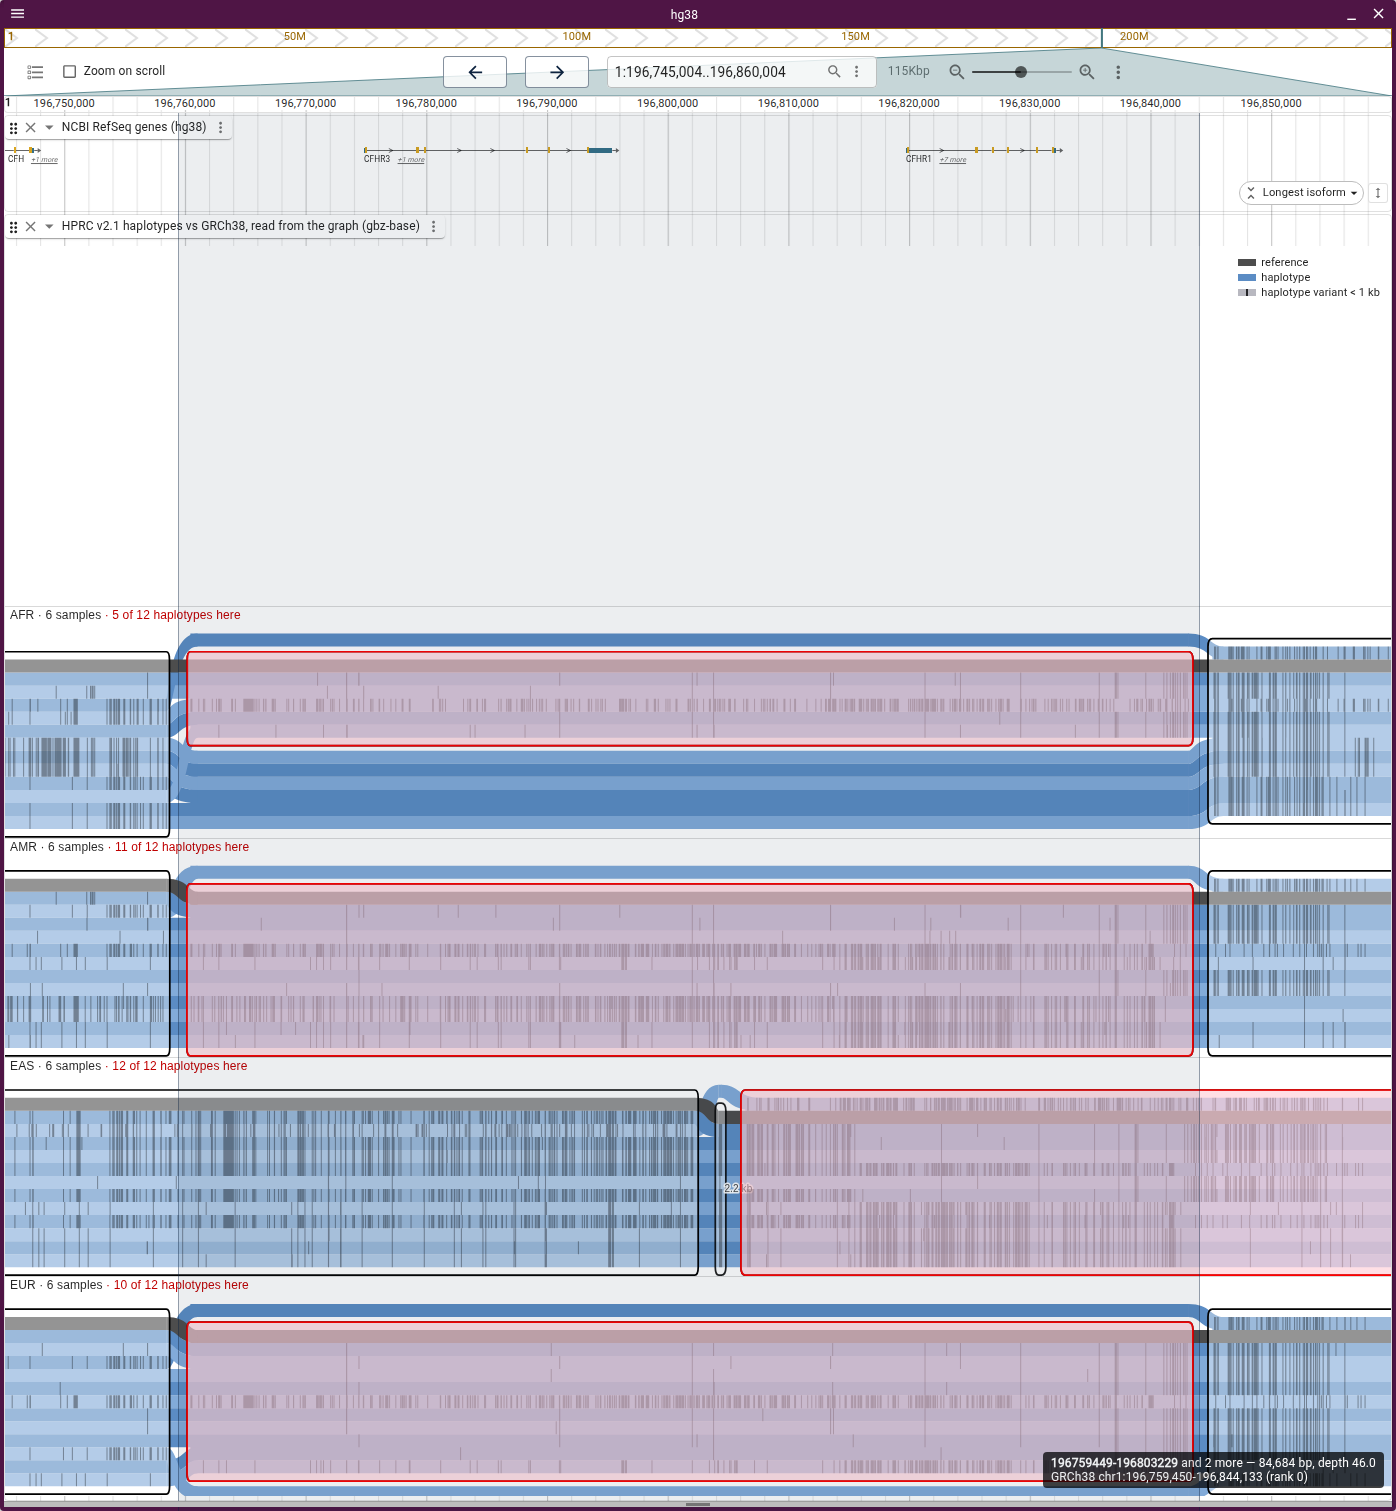
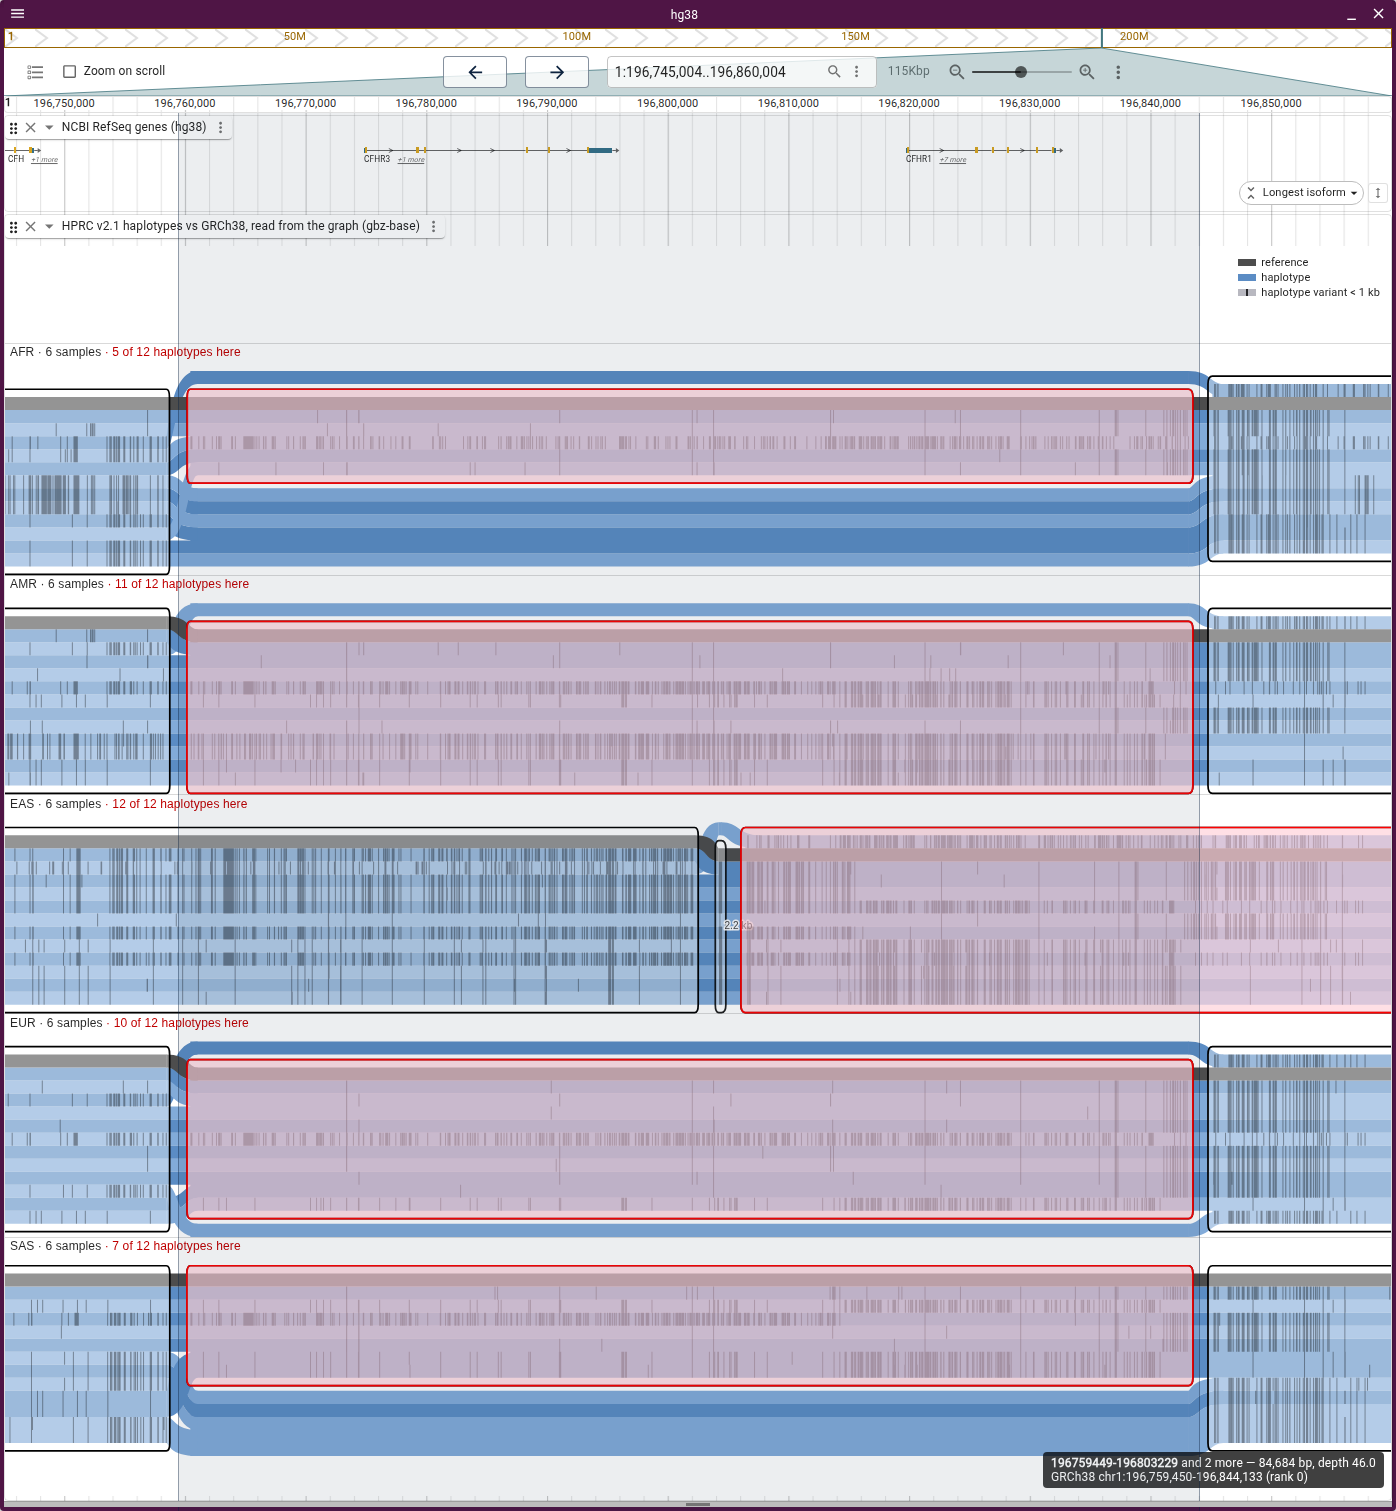
Refit a hosted drawing when its height changes, so split tube maps start at the top
A host fitted the rows once, on takeover. A tube map split by a sample-table
column splits after the table loads, so the unsplit map's centring offset stuck
and the five-population CFHR stack started 360 px down and clipped its last
panel. The host reaction now also watches the drawing's height and the usable
height.

Adds the populations figure to docs/tube-maps.md.

diff --git a/src/LinearGraphDisplay/LinearGraphDisplay.test.ts b/src/LinearGraphDisplay/LinearGraphDisplay.test.ts
@@ -1,3 +1,4 @@
+import { fittedTranslateY } from '@jbrowse/bandage-core/pipeline'
 import PluginManager from '@jbrowse/core/PluginManager'
 import {
   ConfigurationReference,
@@ -768,6 +769,20 @@ test('a tube map on its own axis ties each reference box to its bp in the linear
   // on the reference axis the boxes already sit on their bp
   await pane.switchLayout('tubemapref')
   expect(pane.tubeMapConnectors).toEqual([])
+})
+
+test('a hosted drawing whose height changes after the host took the pane is placed again', async () => {
+  const { pane } = await shownGraph({ paths: true })
+  await pane.switchLayout('tubemapref')
+  await wait(SETTLE_MS)
+  const expected = fittedTranslateY(
+    pane.layoutBounds!,
+    pane.usableHeight,
+    pane.scaleY,
+    pane.fitPads.top,
+  )
+  expect(pane.viewportOwner).toBe('host')
+  expect(pane.translateY).toBeCloseTo(expected, 6)
 })
 
 test("a folded tube map draws the cut's reference as merged nodes, and the rest as ticks or routes", async () => {

diff --git a/src/GraphGenomeView/pane/renderingActions.ts b/src/GraphGenomeView/pane/renderingActions.ts
@@ -107,12 +107,14 @@ export const withRenderingActions = withLoadActions
             { fireImmediately: true },
           ),
         )
-        // A host fits the rows once, when it takes the pane over, which is
-        // before the legend measures the room it needs above them
+        // A host fits the rows when it takes the pane over, which is before
+        // the legend measures the room it needs above them and before a split
+        // into panels changes how tall the drawing is
         addDisposer(
           self,
           reaction(
-            () => self.fitPadTop,
+            () =>
+              `${self.fitPadTop} ${self.layoutBounds?.h} ${self.usableHeight}`,
             () => {
               if (self.viewportOwner === 'host') {
                 self.zoomToFit()

diff --git a/docs/tube-maps.md b/docs/tube-maps.md
@@ -64,6 +64,11 @@ haplotypes through it for the carriers and 0 of 2 for the rest:
 
 ![The CFHR3–CFHR1 box hovered in HG01960's panel](../img/tube_map_cfhr_samples_hover.png)
 
+Split by `superpopulation`, a panel per group of six samples. Hovering CFHR1's
+box in AFR counts 5 of 12 haplotypes through it there, against 12 of 12 in EAS:
+
+![CFHR3 and CFHR1 split by superpopulation, a panel each for AFR, AMR, EAS, EUR and SAS, each title counting its haplotypes through the hovered box](../img/tube_map_cfhr_populations_hover.png)
+
 ## Routes and tube colour
 
 **Layout → Routes** (or `"tubeMapRoutes"`):
